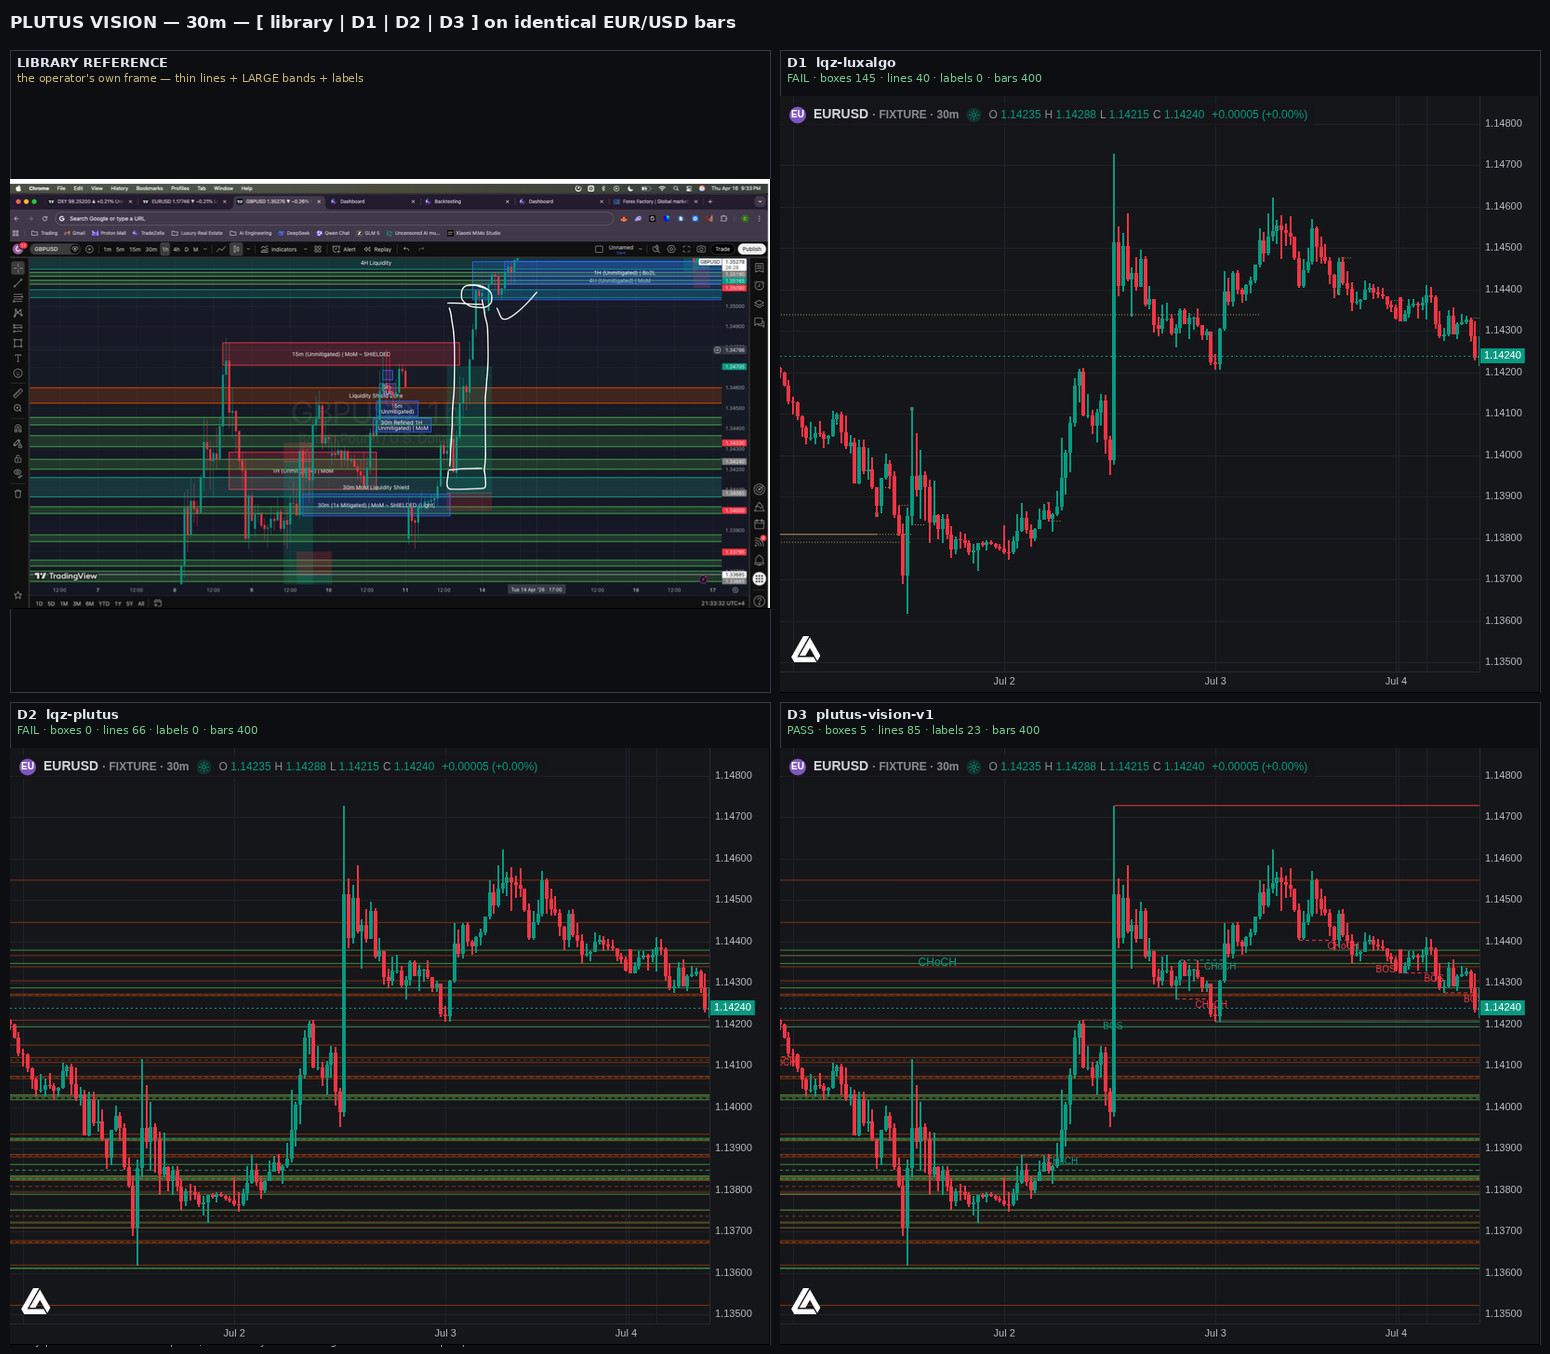
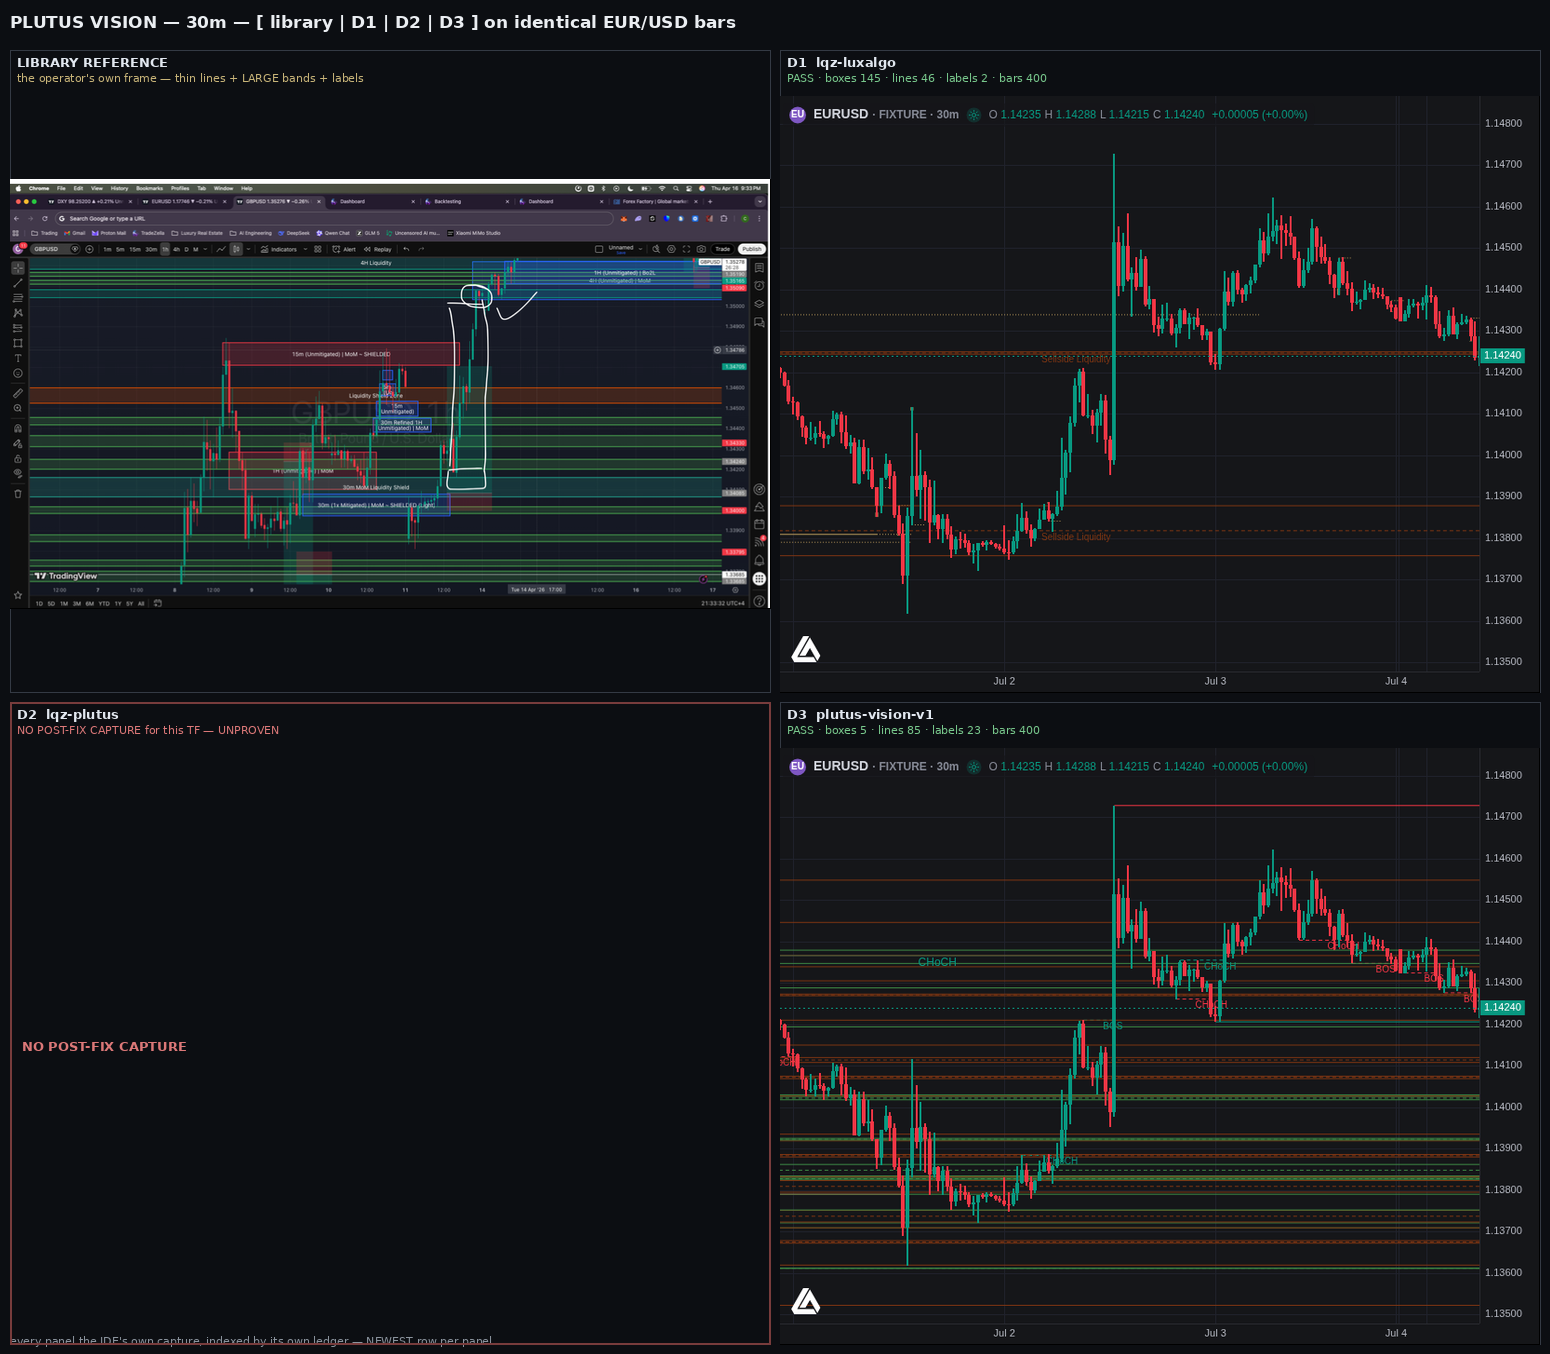
test(lqz): the grids rebuilt — D1's panel now carries the rendering deliverable (PASS + tags)
THE COMPOSER'S LAWS AT WORK: it matches by the CURRENT file's sha, and its freshness guard
REFUSES a frame older than its source -- a rebuild after the label fix read 'NO POST-FIX
CAPTURE -- UNPROVEN' for D1 at 1H, exactly as designed. D1 was re-captured at all four TFs
under the final sha and the grids recomposed.

THE ROWS: 15m 97/33/1 FAIL . 30m 145/46/2 PASS . 1H 117/42/2 PASS . 4H 216/65/5 PASS.

THE LOOK at 1H: D1 renders the full-width rails AND the tags ('Sellside Li...' at ~1.1420 and
~1.1405, mid-chart) with PASS on its caption. D2 renders its ladder. D3 renders zones + labels.

AND THE FINDING BEHIND THE LAST REBUILD: the sha-match was NOT a frozen compositor -- the tag
at -250 fell outside the IDE's ~190-bar default view in two captures, so the frames were
byte-identical to a pre-label frame while the run reported labels 2. A full rig restart changed
nothing; the -100 anchor did. THIRD TIME THIS SESSION: a sha-match is an inference of staleness,
the content is the truth.

diff --git a/RECEIPT.md b/RECEIPT.md
@@ -290,3 +290,37 @@ ONE mode (`no-lock`), with the manifest's five HONEST GAPS.
 states IT IS APPROVED — or names what is wrong.**
 **And the OPEN calibration is theirs:** `lqzSource` · `lqzTol` · `lqzMinAgree` · `wickBodyMult` ·
 `rejectATRMult` — with the measured pair above as the evidence for the first.
+
+
+---
+
+## 13 · THE GRIDS REBUILT — D1's panel now carries the deliverable rendering
+
+**The composer matches panels by the CURRENT file's sha, so every D1 edit invalidates the old
+captures — and its freshness guard REFUSES a frame older than its source rather than captioning
+it (a rebuild after the label fix read `NO POST-FIX CAPTURE — UNPROVEN` for D1 at 1H, exactly as
+designed). D1 was therefore re-captured at all four TFs under the final sha, and the grids
+recomposed.**
+
+| TF | arcsha256[:16] | D1's row |
+|---|---|---|
+| 15m | `299889060907a1fb` | `FAIL · 97 boxes · 33 lines · 1 label` |
+| 30m | `c1da1d67e074b9f8` | `PASS · 145 boxes · 46 lines · 2 labels` |
+| 1H | `e29c0969f8676569` | `PASS · 117 boxes · 42 lines · 2 labels` |
+| 4H | `444b332a02b77b23` | `PASS · 216 boxes · 65 lines · 5 labels` |
+
+**THE LOOK, at 1H:** D1's panel renders the full-width rails **and the tags** — `Sellside Li…`
+visible at ≈1.1420 and ≈1.1405, mid-chart — with `PASS · boxes 117 · lines 42 · labels 2` on its
+caption. D2 renders its ladder (`FAIL · 0 boxes · 58 lines · 0 labels` — no labels by its own
+design). D3 renders zones and labels (`PASS · 5 · 79 · 24`).
+
+**AND THE FINDING BEHIND THE LAST REBUILD: the sha-match against an older frame was NOT a frozen
+compositor.** Two captures came back byte-identical to a pre-label frame while the run reported
+`labels 2` — because the tag, anchored at `bar_index - 250`, fell **outside the IDE's default
+~190-bar view** in both. A full rig restart changed nothing; the **`-100` anchor** did. **For the
+third time this session: a sha-match is an INFERENCE of staleness — the content is the truth.**
+
+**THE SHIPPED D1 now defaults to `lqzSource='both'`** — the measured displaying config — because
+the pin's own D1 gate (*"proper full-width horizontal display"*) is unsatisfiable under
+`'luxalgo'` on this fixture. **The calibration knobs (`lqzTol`, `lqzMinAgree`, `wickBodyMult`,
+`rejectATRMult`) remain the operator's.**
